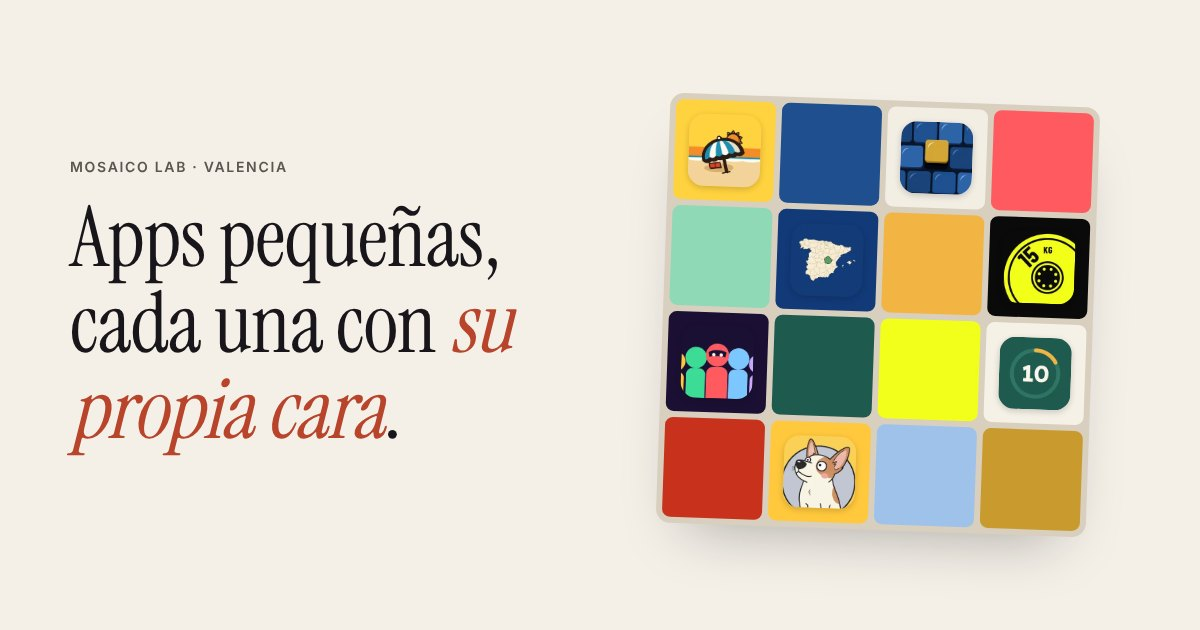
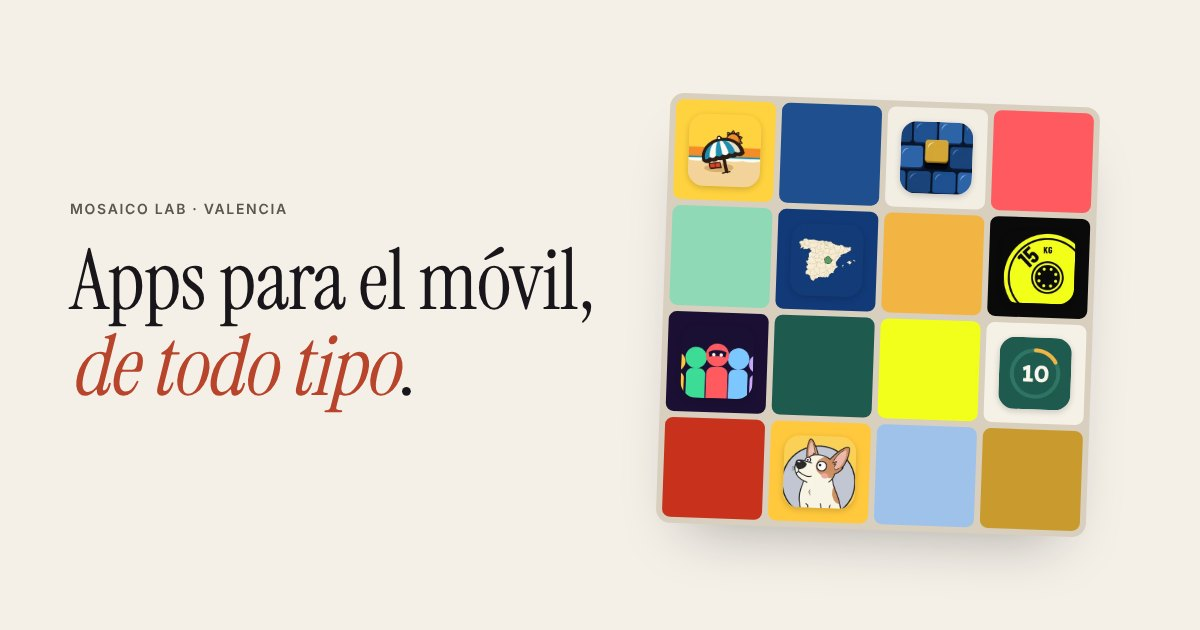
Portada: Mosaico Lab como estudio de apps de todo tipo, sin «cada una con su cara» (#41)
Claude-Session: https://claude.ai/code/session_01UbhEJma6zp3cWaMhZ8zG2f

Changed region(s): [[0.0617, 0.3016, 0.4933, 0.7238], [0.0617, 0.2413, 0.2467, 0.2714]]

diff --git a/web/index.html b/web/index.html
@@ -3,8 +3,8 @@
 <head>
 <meta charset="utf-8">
 <meta name="viewport" content="width=device-width, initial-scale=1">
-<title>Mosaico Lab: juegos y apps de móvil, cada una con su cara</title>
-<meta name="description" content="Mosaico Lab es un estudio pequeño de Valencia. Hacemos juegos y apps de móvil: Primera Línea, Tesela, ¿Dónde cae?, Wodpost, Squady, Diez Minutos y Top Dog.">
+<title>Mosaico Lab: apps de móvil de todo tipo</title>
+<meta name="description" content="Mosaico Lab es un estudio pequeño de Valencia. Hacemos apps de móvil de todo tipo: para entrenar, jugar, aprender o salir de fiesta. Ahora: Primera Línea, Tesela, ¿Dónde cae?, Wodpost, Squady, Diez Minutos y Top Dog.">
 <meta name="theme-color" content="#F4F0E8">
 <meta name="google-adsense-account" content="ca-pub-4488435659395641">
 <link rel="canonical" href="https://mosaicolab.app/">
@@ -13,8 +13,8 @@
 <meta property="og:type" content="website">
 <meta property="og:site_name" content="Mosaico Lab">
 <meta property="og:locale" content="es_ES">
-<meta property="og:title" content="Mosaico Lab: juegos y apps de móvil, cada una con su cara">
-<meta property="og:description" content="Un estudio pequeño de Valencia. Siete apps, cada una con su propio estilo.">
+<meta property="og:title" content="Mosaico Lab: apps de móvil de todo tipo">
+<meta property="og:description" content="Un estudio pequeño de Valencia que hace apps de todo tipo: deporte, juegos, cultura y fiesta.">
 <meta property="og:url" content="https://mosaicolab.app/">
 <meta property="og:image" content="https://mosaicolab.app/assets/mosaico/og.jpg">
 <meta name="twitter:card" content="summary_large_image">
@@ -41,8 +41,8 @@
   <div class="marco portada-rejilla">
     <div>
       <p class="antetitulo">Estudio de apps · Valencia</p>
-      <h1 id="titulo">Apps pequeñas, cada una con <em>su propia cara</em>.</h1>
-      <p class="entradilla">Somos Mosaico Lab. Hacemos juegos y apps para el móvil: un puzle de playa, el mapa de España, la pizarra del box hecha historia, juegos para la fiesta. Cada una con su dibujo, su música y su forma de hablarte.</p>
+      <h1 id="titulo">Apps para el móvil, <em>de todo tipo</em>.</h1>
+      <p class="entradilla">Somos Mosaico Lab. Hacemos apps para lo que haga falta: entrenar en el box, jugar con amigos o en familia, aprender algo cada día o pasar el rato. Ahora mismo tenemos siete en marcha.</p>
       <p><a class="boton" href="#apps">Ver las siete</a></p>
     </div>
     <div class="mosaico" aria-hidden="true">
@@ -151,7 +151,7 @@
   <div class="marco como-rejilla">
     <h2 id="como-titulo" class="aparece">Cómo las hacemos</h2>
     <ol class="principios">
-      <li class="aparece"><b>Cada una, su cara.</b> Dibujos, música y tono propios. No hay dos apps con la misma plantilla.</li>
+      <li class="aparece"><b>De todo tipo.</b> Deporte, juegos, cultura o fiesta: no nos casamos con una categoría. Hacemos la app que tenga sentido.</li>
       <li class="aparece"><b>Cuentas, solo si tú quieres.</b> Se juega sin registrarse. Pedimos los datos mínimos y lo contamos en cada política de privacidad.</li>
       <li class="aparece"><b>Sin trampas para gastar.</b> Ni cajas de botín ni precios que cambian según lo que gastes. Si una app lleva anuncios, su web lo dice claro.</li>
       <li class="aparece"><b>Hechas aquí.</b> Playas, provincias y boxes de verdad. Pensadas en español, para gente de aquí.</li>

diff --git a/web/assets/mosaico/mosaico.css b/web/assets/mosaico/mosaico.css
@@ -1,4 +1,4 @@
-/* Mosaico Lab · portada del estudio. Sobria a propósito: el color lo ponen las apps, cada una con su paleta. */
+/* Mosaico Lab · portada del estudio. Sobria a propósito: el color lo ponen las apps. */
 @font-face { font-family: "Instrument Serif"; src: url("/assets/mosaico/InstrumentSerif-Regular.woff2") format("woff2"); font-weight: 400; font-display: swap; }
 @font-face { font-family: "Inter Tight"; src: url("/assets/mosaico/InterTight-Medium.woff2") format("woff2"); font-weight: 500; font-display: swap; }
 @font-face { font-family: "Inter Tight"; src: url("/assets/mosaico/InterTight-SemiBold.woff2") format("woff2"); font-weight: 600; font-display: swap; }
